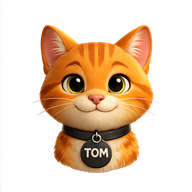
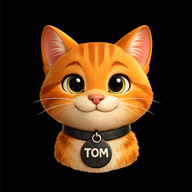
Icono de TOM con fondo negro (adaptativo) y quita "Mama" de los pendientes por defecto
- El icono del launcher tenia fondo blanco porque solo existia un PNG plano
  sin icono adaptativo (Android le pone su propio fondo blanco por defecto
  a los iconos sin capa de fondo declarada). Se agrega el icono adaptativo
  correcto: fondo negro solido (values/colors.xml) + el gato como capa de
  primer plano recentrada (mipmap-anydpi-v26/ic_launcher(_round).xml). El
  PNG plano de respaldo (pre-Android 8) tambien queda con fondo negro.
- Mismo arreglo en los iconos del manifest web (icon-192.png/icon-512.png).
- Se quita "Mama" de DEBT_DEFAULT_ITEMS: ya no aparecera en instalaciones
  nuevas/datos limpios. Como el listado de Luna ya es completamente
  editable, si "Mama" ya existe en una instalacion en uso se puede borrar
  directamente desde la app (tocarlo -> icono de basura).

diff --git a/android/app/src/main/assets/www/app.js b/android/app/src/main/assets/www/app.js
@@ -82,7 +82,7 @@ let monthlyBudget = { gastos: 0, entretenimiento: 0, ahorro: 0 };
 let savingsGoal = 0;
 
 let appMode = 'tom';
-const DEBT_DEFAULT_ITEMS = ['Mama','Tarjeta','Prestamos','Parqueadero','Servicio','Arriendo'];
+const DEBT_DEFAULT_ITEMS = ['Tarjeta','Prestamos','Parqueadero','Servicio','Arriendo'];
 let debtItems = [...DEBT_DEFAULT_ITEMS];
 let debtData = {}; // { [name]: { totalDebt: number, payments: { 'YYYY-MM': number } } }
 let debtIcons = {}; // name -> "iconKey|color"

diff --git a/app.js b/app.js
@@ -82,7 +82,7 @@ let monthlyBudget = { gastos: 0, entretenimiento: 0, ahorro: 0 };
 let savingsGoal = 0;
 
 let appMode = 'tom';
-const DEBT_DEFAULT_ITEMS = ['Mama','Tarjeta','Prestamos','Parqueadero','Servicio','Arriendo'];
+const DEBT_DEFAULT_ITEMS = ['Tarjeta','Prestamos','Parqueadero','Servicio','Arriendo'];
 let debtItems = [...DEBT_DEFAULT_ITEMS];
 let debtData = {}; // { [name]: { totalDebt: number, payments: { 'YYYY-MM': number } } }
 let debtIcons = {}; // name -> "iconKey|color"
